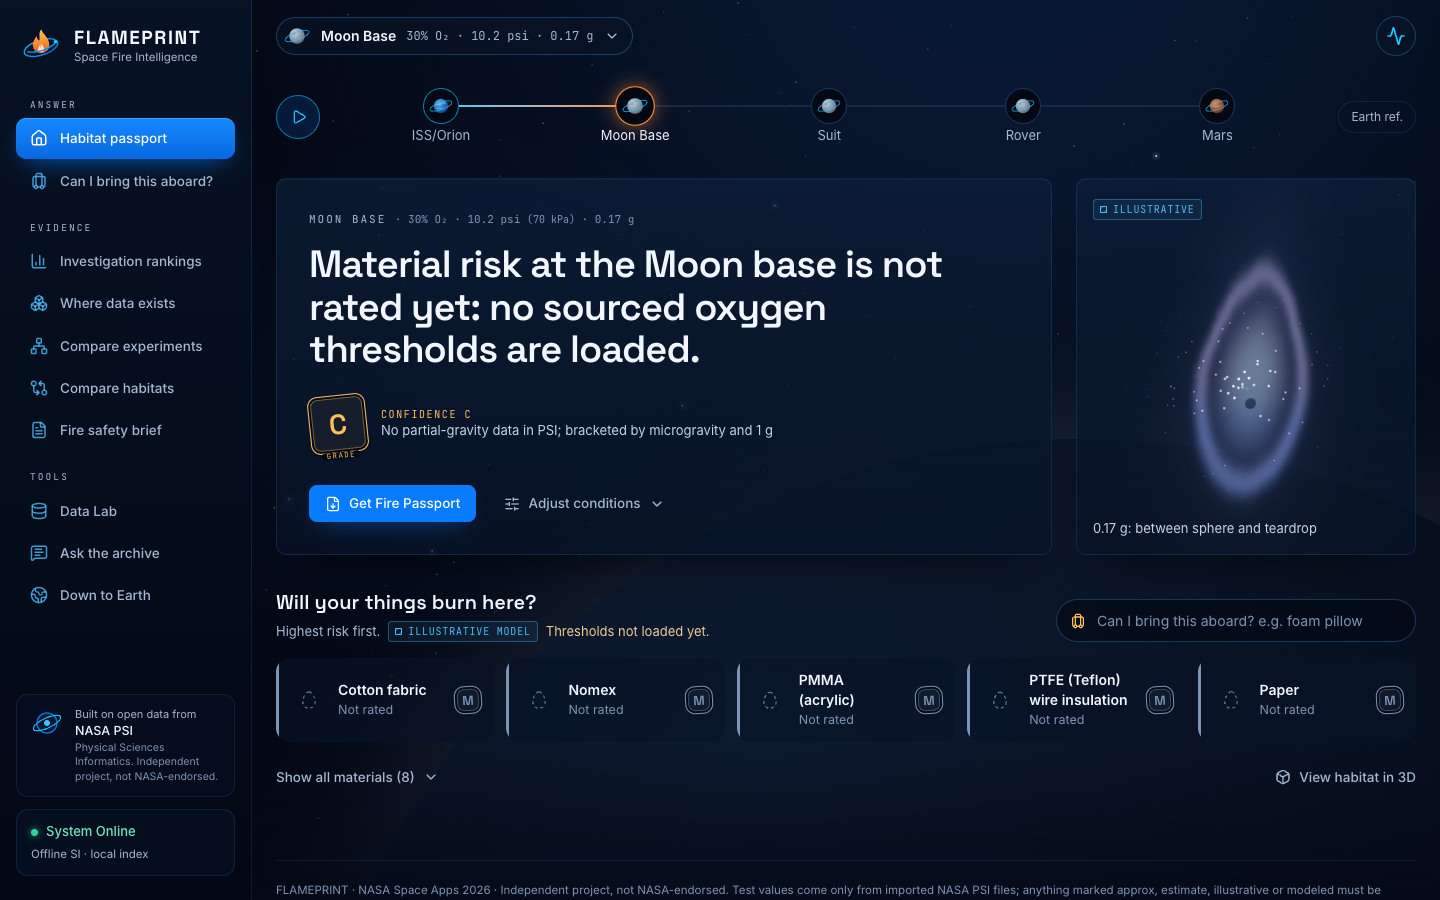
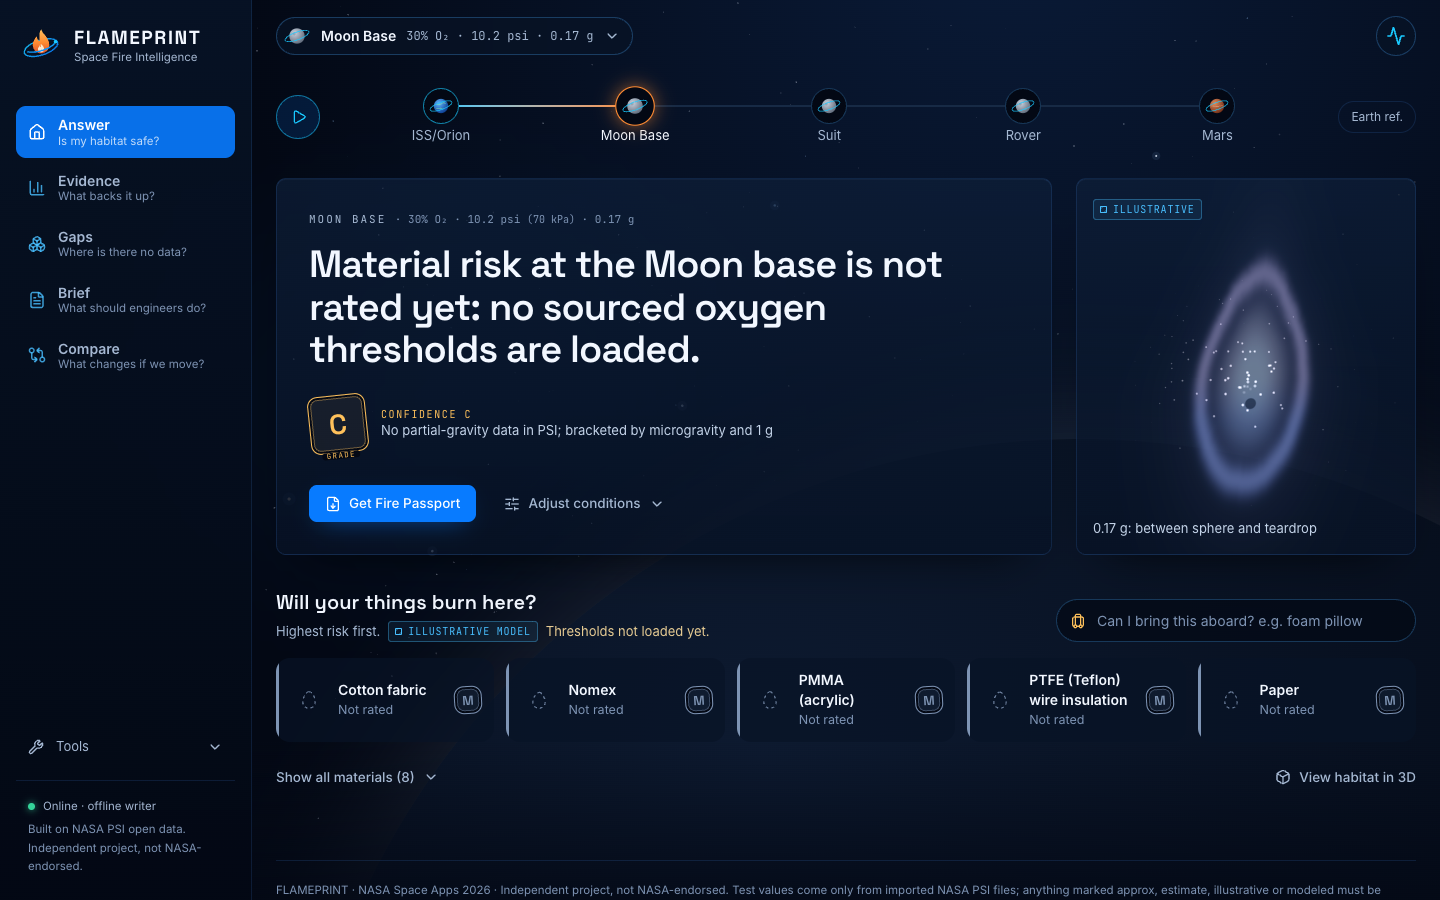
Sidebar: five questions and a small Tools menu
- Answer, Evidence, Gaps, Brief, Compare, each with its one question; active state also covers #genome
- Tools menu (stowage, Data Lab, Ask the archive, Down to Earth) collapsed at the bottom
- Attribution and system cards replaced by one quiet status line
- Links: #overview -> Answer, #genome -> Compare (experiments), plus #evidence, #gaps, #compare aliases
- Tools pages within budget: Data Lab details collapsed, Earth shows 3 of 6, stowage list 5 of 8

diff --git a/frontend/src/components/Sidebar.tsx b/frontend/src/components/Sidebar.tsx
@@ -2,26 +2,23 @@
 
 import { AnimatePresence, motion } from "framer-motion";
 import {
-  BarChart3, Boxes, Database, FileText, GitCompareArrows, Globe2, Home, Luggage, MessageSquareText, Network, X,
+  BarChart3, Boxes, ChevronDown, Database, FileText, GitCompareArrows, Globe2, Home, Luggage, MessageSquareText, Wrench, X,
 } from "lucide-react";
-import { useId } from "react";
+import { useEffect, useId, useState } from "react";
 import { type Tab, useMission } from "@/lib/mission";
 
-export type NavGroup = "answer" | "evidence" | "tools";
-export const NAV: { id: Tab; label: string; short: string; icon: React.ReactNode; group: NavGroup }[] = [
-  { id: "answer", label: "Habitat passport", short: "Answer", icon: <Home className="h-[18px] w-[18px]" />, group: "answer" },
-  { id: "stowage", label: "Can I bring this aboard?", short: "Stowage", icon: <Luggage className="h-[18px] w-[18px]" />, group: "answer" },
-  { id: "ranking", label: "Investigation rankings", short: "Rankings", icon: <BarChart3 className="h-[18px] w-[18px]" />, group: "evidence" },
-  { id: "space", label: "Where data exists", short: "Data map", icon: <Boxes className="h-[18px] w-[18px]" />, group: "evidence" },
-  { id: "genome", label: "Compare experiments", short: "Compare", icon: <Network className="h-[18px] w-[18px]" />, group: "evidence" },
-  { id: "habitats", label: "Compare habitats", short: "Habitats", icon: <GitCompareArrows className="h-[18px] w-[18px]" />, group: "evidence" },
-  { id: "brief", label: "Fire safety brief", short: "Brief", icon: <FileText className="h-[18px] w-[18px]" />, group: "evidence" },
-  { id: "data", label: "Data Lab", short: "Data", icon: <Database className="h-[18px] w-[18px]" />, group: "tools" },
-  { id: "ask", label: "Ask the archive", short: "Ask", icon: <MessageSquareText className="h-[18px] w-[18px]" />, group: "tools" },
-  { id: "earth", label: "Down to Earth", short: "Earth", icon: <Globe2 className="h-[18px] w-[18px]" />, group: "tools" },
-];
-const GROUPS: { id: NavGroup; label: string }[] = [
-  { id: "answer", label: "Answer" }, { id: "evidence", label: "Evidence" }, { id: "tools", label: "Tools" },
+export type NavGroup = "main" | "tools";
+/** Five pages, each answering one question, plus a small Tools menu. */
+export const NAV: { id: Tab; label: string; question: string; icon: React.ReactNode; group: NavGroup; also?: Tab[] }[] = [
+  { id: "answer", label: "Answer", question: "Is my habitat safe?", icon: <Home className="h-[18px] w-[18px]" />, group: "main" },
+  { id: "ranking", label: "Evidence", question: "What backs it up?", icon: <BarChart3 className="h-[18px] w-[18px]" />, group: "main" },
+  { id: "space", label: "Gaps", question: "Where is there no data?", icon: <Boxes className="h-[18px] w-[18px]" />, group: "main" },
+  { id: "brief", label: "Brief", question: "What should engineers do?", icon: <FileText className="h-[18px] w-[18px]" />, group: "main" },
+  { id: "habitats", label: "Compare", question: "What changes if we move?", icon: <GitCompareArrows className="h-[18px] w-[18px]" />, group: "main", also: ["genome"] },
+  { id: "stowage", label: "Can I bring this aboard?", question: "", icon: <Luggage className="h-[16px] w-[16px]" />, group: "tools" },
+  { id: "data", label: "Data Lab", question: "", icon: <Database className="h-[16px] w-[16px]" />, group: "tools" },
+  { id: "ask", label: "Ask the archive", question: "", icon: <MessageSquareText className="h-[16px] w-[16px]" />, group: "tools" },
+  { id: "earth", label: "Down to Earth", question: "", icon: <Globe2 className="h-[16px] w-[16px]" />, group: "tools" },
 ];
 
 /** FLAMEPRINT mark: a flame held inside an orbital ring. */
@@ -64,59 +61,64 @@ export function Logo({ compact = false }: { compact?: boolean }) {
   );
 }
 
-function NavItem({ id, label, icon, rail, onNavigate }: { id: Tab; label: string; icon: React.ReactNode; rail: boolean; onNavigate?: () => void }) {
+function NavItem({ item, rail, onNavigate, small = false }: { item: (typeof NAV)[number]; rail: boolean; onNavigate?: () => void; small?: boolean }) {
   const { tab, setTab } = useMission();
-  const active = tab === id;
+  const active = tab === item.id || !!item.also?.includes(tab);
   return (
-    <button title={rail ? label : undefined} aria-current={active ? "page" : undefined}
-      onClick={() => { setTab(id); onNavigate?.(); }}
-      className={`group relative flex w-full items-center gap-3 rounded-[10px] py-2.5 text-left transition-colors ${rail ? "justify-center px-0" : "px-3.5"} ${
+    <button title={rail ? item.label : undefined} aria-current={active ? "page" : undefined}
+      onClick={() => { setTab(item.id); onNavigate?.(); }}
+      className={`group relative flex w-full items-center gap-3 rounded-[10px] text-left transition-colors duration-150 ${small ? "py-2" : "py-2.5"} ${rail ? "justify-center px-0" : "px-3"} ${
         active ? "text-white" : "text-mute hover:text-ink"}`}>
       {active && (
-        <motion.span layoutId={rail ? "nav-active-rail" : "nav-active"}
-          className="absolute inset-0 rounded-[10px] bg-[linear-gradient(180deg,#1688ff,#0868e0)] shadow-[0_8px_24px_-10px_rgba(8,123,255,0.9),inset_0_1px_0_rgba(255,255,255,0.18)]"
-          transition={{ type: "spring", stiffness: 420, damping: 36 }} />
+        <motion.span layoutId={rail ? "nav-active-rail" : "nav-active"} className="absolute inset-0 rounded-[10px] bg-blue/90"
+          transition={{ duration: 0.25, ease: [0.2, 0.7, 0.2, 1] }} />
       )}
-      {!active && <span className="absolute inset-0 rounded-[10px] bg-white/[0.035] opacity-0 transition-opacity group-hover:opacity-100" />}
-      <span className={`relative z-10 transition-colors ${active ? "text-white" : "text-ox-2/80 group-hover:text-ox"}`}>{icon}</span>
-      {!rail && <span className="relative z-10 text-[13.5px] font-medium">{label}</span>}
+      {!active && <span className="absolute inset-0 rounded-[10px] bg-white/[0.035] opacity-0 transition-opacity duration-150 group-hover:opacity-100" />}
+      <span className={`relative z-10 ${active ? "text-white" : "text-ox-2/80 group-hover:text-ox"}`}>{item.icon}</span>
+      {!rail && (
+        <span className="relative z-10 min-w-0 leading-tight">
+          <span className={`block ${small ? "text-[13px]" : "text-[14px] font-semibold"}`}>{item.label}</span>
+          {item.question && <span className={`block truncate text-[11.5px] ${active ? "text-white/75" : "text-slate-500"}`}>{item.question}</span>}
+        </span>
+      )}
     </button>
   );
 }
 
-function SystemCard({ compact }: { compact?: boolean }) {
+function Status({ rail }: { rail: boolean }) {
   const { health, error } = useMission();
   const online = !!health && !error;
   const tone = error ? "#FF5A4E" : online ? "#34D399" : "#7E94B4";
-  if (compact) {
-    return <span title={error ? "Backend offline" : online ? "System online" : "Connecting"} className="led mx-auto block" style={{ color: tone }} />;
-  }
+  const text = error ? "Engine offline" : online ? (health.llm.enabled ? "Online · Claude" : "Online · offline writer") : "Connecting…";
+  if (rail) return <span title={text} className="led mx-auto block" style={{ color: tone }} />;
   return (
-    <div className="rounded-[12px] border border-[var(--line)] bg-space-900/60 px-3.5 py-3">
-      <div className="flex items-center gap-2 text-[13px] font-medium" style={{ color: online ? "#6EE7B7" : error ? "#FF9A91" : "#A5B8D2" }}>
-        <span className="led" style={{ color: tone }} />
-        {error ? "Backend offline" : online ? "System Online" : "Connecting…"}
-      </div>
-      <div className="mt-1 text-[11.5px] text-mute">
-        {health ? `${health.llm.enabled ? "Claude SI" : "Offline SI"} · ${health.db.backend === "postgres" ? "pgvector" : "local index"}` : "Linking archive"}
-      </div>
+    <div className="px-3 text-[11.5px] leading-relaxed text-slate-500">
+      <div className="flex items-center gap-2 text-slate-400"><span className="led" style={{ color: tone }} />{text}</div>
+      <div className="mt-1">Built on NASA PSI open data. Independent project, not NASA-endorsed.</div>
     </div>
   );
 }
 
-function Attribution() {
+function ToolsMenu({ rail, onNavigate }: { rail: boolean; onNavigate?: () => void }) {
+  const { tab } = useMission();
+  const tools = NAV.filter((n) => n.group === "tools");
+  const inTools = tools.some((t) => t.id === tab);
+  const [open, setOpen] = useState(inTools);
+  useEffect(() => { if (inTools) setOpen(true); }, [inTools]);
   return (
-    <div className="flex items-start gap-3 rounded-[12px] border border-[var(--line)] bg-space-900/40 px-3.5 py-3">
-      <svg viewBox="0 0 32 32" className="h-8 w-8 shrink-0" aria-hidden>
-        <circle cx="16" cy="16" r="10" fill="#0B1930" stroke="#087BFF" strokeWidth="1.3" />
-        <ellipse cx="16" cy="16" rx="15" ry="5" fill="none" stroke="#19C9FF" strokeWidth="1.1" transform="rotate(-25 16 16)" />
-        <circle cx="16" cy="16" r="3" fill="#48BFFF" />
-      </svg>
-      <div className="leading-snug">
-        <div className="text-[11px] text-mute">Built on open data from</div>
-        <div className="text-[12.5px] font-medium text-ink">NASA PSI</div>
-        <div className="mt-0.5 text-[10.5px] text-slate-500">Physical Sciences Informatics. Independent project, not NASA-endorsed.</div>
-      </div>
+    <div>
+      <button onClick={() => setOpen((x) => !x)} aria-expanded={open} title={rail ? "Tools" : undefined}
+        className={`flex w-full items-center gap-3 rounded-[10px] py-2 text-[13px] text-mute transition-colors duration-150 hover:text-ink ${rail ? "justify-center" : "px-3"}`}>
+        <Wrench className="h-4 w-4" />{!rail && <>Tools<ChevronDown className={`ml-auto h-4 w-4 transition-transform duration-200 ${open ? "rotate-180" : ""}`} /></>}
+      </button>
+      <AnimatePresence initial={false}>
+        {open && (
+          <motion.nav aria-label="Tools" initial={{ height: 0, opacity: 0 }} animate={{ height: "auto", opacity: 1 }} exit={{ height: 0, opacity: 0 }}
+            transition={{ duration: 0.2 }} className="flex flex-col gap-0.5 overflow-hidden">
+            {tools.map((n) => <NavItem key={n.id} item={n} rail={rail} onNavigate={onNavigate} small />)}
+          </motion.nav>
+        )}
+      </AnimatePresence>
     </div>
   );
 }
@@ -125,19 +127,12 @@ function Panel({ rail, onNavigate }: { rail: boolean; onNavigate?: () => void })
   return (
     <div className={`flex h-full flex-col ${rail ? "items-stretch px-3 py-5" : "px-4 py-6"}`}>
       <div className={rail ? "" : "px-1"}><Logo compact={rail} /></div>
-      {GROUPS.map((g, gi) => (
-        <div key={g.id} className={gi === 0 ? (rail ? "mt-7" : "mt-8") : "mt-5"}>
-          <div className={`mb-1.5 ${rail ? "mx-auto w-6" : "px-3.5"}`}>
-            {rail ? (gi > 0 && <div className="rule" />) : <div className="label !text-[9.5px] !tracking-[0.22em] text-slate-500">{g.label}</div>}
-          </div>
-          <nav aria-label={g.label} className="flex flex-col gap-0.5">
-            {NAV.filter((n) => n.group === g.id).map((n) => <NavItem key={n.id} id={n.id} label={n.label} icon={n.icon} rail={rail} onNavigate={onNavigate} />)}
-          </nav>
-        </div>
-      ))}
-      <div className="mt-auto space-y-3 pt-6">
-        {!rail && <Attribution />}
-        <SystemCard compact={rail} />
+      <nav aria-label="Pages" className={`flex flex-col gap-1 ${rail ? "mt-8" : "mt-10"}`}>
+        {NAV.filter((n) => n.group === "main").map((n) => <NavItem key={n.id} item={n} rail={rail} onNavigate={onNavigate} />)}
+      </nav>
+      <div className="mt-auto space-y-4 pt-6">
+        <ToolsMenu rail={rail} onNavigate={onNavigate} />
+        <div className={rail ? "" : "border-t border-[var(--line)] pt-4"}><Status rail={rail} /></div>
       </div>
     </div>
   );

diff --git a/frontend/src/components/DataLab.tsx b/frontend/src/components/DataLab.tsx
@@ -1,7 +1,7 @@
 "use client";
 
 import { AnimatePresence, motion } from "framer-motion";
-import { CheckCircle2, Download, FileUp, RefreshCw, Sparkles, Trash2, TriangleAlert, UploadCloud } from "lucide-react";
+import { CheckCircle2, Download, FileUp, RefreshCw, Sparkles, Trash2, TriangleAlert, UploadCloud, ChevronDown } from "lucide-react";
 import { useCallback, useEffect, useRef, useState } from "react";
 import { api } from "@/lib/api";
 import { useMission } from "@/lib/mission";
@@ -13,6 +13,7 @@ type Preview = { file: File; report: IngestReport; sample: TestRecord[]; textPre
 export function DataLab() {
   const { dataset, health, refreshData } = useMission();
   const [drag, setDrag] = useState(false);
+  const [details, setDetails] = useState(false);
   const [inv, setInv] = useState("");
   const [preview, setPreview] = useState<Preview | null>(null);
   const [busy, setBusy] = useState<string | null>(null);
@@ -63,11 +64,11 @@ export function DataLab() {
 
   return (
     <div>
-    <PageHeader index="08" kicker="Data lab" title="Plug in the official PSI dataset"
+    <PageHeader kicker="Tools · Data Lab" title="Plug in the official PSI dataset"
       actions={<button onClick={() => act("reload", api.reload, "Re-scanned data/psi and re-indexed.")} className="btn btn-outline !py-2 !text-[12.5px]">
         <RefreshCw className={`h-4 w-4 ${busy === "reload" ? "animate-spin" : ""}`} /> Reload data/psi
       </button>}>
-      Drop NASA PSI test matrices, metadata or documents. Columns are mapped and units converted before anything is saved, and every view updates.
+      Drop PSI test files here; columns and units are mapped before anything is saved.
     </PageHeader>
     <div className="grid gap-5 xl:grid-cols-[1.25fr_1fr]">
       <div className="space-y-5">
@@ -178,9 +179,9 @@ export function DataLab() {
           </AnimatePresence>
         </div>
 
-        <div className="panel p-4 sm:p-5">
+        {uploads.length > 0 && <div className="panel p-4 sm:p-5">
           <div className="label mb-3">Uploaded files</div>
-          {uploads.length === 0 ? <p className="text-sm text-slate-500">Nothing uploaded yet. Files in <code className="text-slate-300">data/psi/</code> are loaded automatically.</p> : (
+          {(
             <div className="space-y-1.5">
               {uploads.map((u) => (
                 <div key={u.file} className="flex flex-wrap items-center gap-2 rounded-[4px] border border-slate-800 bg-space-900/50 px-3 py-2 text-[12.5px]">
@@ -206,7 +207,7 @@ export function DataLab() {
                 className="mt-2 text-xs text-slate-500 hover:text-rose-300">Remove all uploads</button>
             </div>
           )}
-        </div>
+        </div>}
       </div>
 
       <div className="space-y-5">
@@ -236,6 +237,10 @@ export function DataLab() {
           </div>
         </div>
 
+        <button onClick={() => setDetails((x) => !x)} aria-expanded={details} className="btn btn-ghost !px-0">
+          {details ? "Hide details" : "Show details"}<ChevronDown className={`h-4 w-4 transition-transform duration-200 ${details ? "rotate-180" : ""}`} />
+        </button>
+        {details && <>
         <div className="panel p-4 sm:p-5">
           <div className="label mb-3">Ingestion log</div>
           <div className="max-h-[420px] space-y-2 overflow-y-auto pr-1 scrollbar-thin">
@@ -262,6 +267,7 @@ export function DataLab() {
             <li>PDFs and text are indexed for retrieval and, with Claude, can be turned into structured metadata.</li>
           </ol>
         </div>
+        </>}
       </div>
     </div>
     </div>

diff --git a/frontend/src/components/EarthPanel.tsx b/frontend/src/components/EarthPanel.tsx
@@ -1,7 +1,8 @@
 "use client";
 
 import { motion } from "framer-motion";
-import { ArrowRight } from "lucide-react";
+import { ArrowRight, ChevronDown } from "lucide-react";
+import { useState } from "react";
 import { PILLAR_COLOR } from "@/lib/format";
 import { useMission } from "@/lib/mission";
 import type { Spinoff } from "@/lib/types";
@@ -135,17 +136,22 @@ function AppRow({ s, i }: { s: Spinoff; i: number }) {
 }
 
 export function EarthPanel() {
+  const [all, setAll] = useState(false);
   const { dataset } = useMission();
   const spin = dataset?.spinoffs ?? [];
   const links = new Set(spin.flatMap((s) => s.related)).size;
   return (
     <div>
-      <PageHeader index="06" kicker="Down to Earth" title="From orbit to everyday fire safety">
-        How space combustion research connects to suppression, detection, protective equipment and fire safety in confined spaces.
+      <PageHeader kicker="Tools · Down to Earth" title="From orbit to everyday fire safety">
         Each link says whether it comes from the challenge brief or is inferred from investigation objectives.
       </PageHeader>
       <EarthHero apps={spin.length} links={links} />
-      <div className="space-y-4">{spin.map((s, i) => <AppRow key={s.title} s={s} i={i} />)}</div>
+      <div className="space-y-4">{(all ? spin : spin.slice(0, 3)).map((s, i) => <AppRow key={s.title} s={s} i={i} />)}</div>
+      {spin.length > 3 && (
+        <button onClick={() => setAll((x) => !x)} aria-expanded={all} className="btn btn-ghost mt-4 !px-0">
+          {all ? "Show fewer" : `Show all ${spin.length}`}<ChevronDown className={`h-4 w-4 transition-transform duration-200 ${all ? "rotate-180" : ""}`} />
+        </button>
+      )}
     </div>
   );
 }

diff --git a/frontend/src/components/StowageInspector.tsx b/frontend/src/components/StowageInspector.tsx
@@ -141,6 +141,7 @@ export function StowageSearch() {
 
 /** Full tab. */
 export function StowageInspector() {
+  const [allMats, setAllMats] = useState(false);
   const s = useStowage();
   const { scenario, habitats, analysis } = useMission();
   const name = habitats.find((h) => h.id === scenario.habitatId)?.name ?? "Custom mission";
@@ -164,13 +165,18 @@ export function StowageInspector() {
         <div className="panel mt-5 p-5">
           <div className="label mb-3">Materials FLAMEPRINT knows</div>
           <ul className="grid grid-cols-1 gap-2 sm:grid-cols-2">
-            {analysis.materials.map((m) => (
+            {(allMats ? analysis.materials : analysis.materials.slice(0, 5)).map((m) => (
               <li key={m.id} className="flex items-center justify-between gap-2 rounded-[8px] bg-space-950/40 px-3 py-2 text-[13px]">
                 <span className="min-w-0"><span className="text-ink">{m.name}</span><span className="block truncate text-[11.5px] text-slate-500">{m.usedFor}</span></span>
                 <span className="shrink-0 text-[12px]" style={{ color: LEVEL_STYLE[m.level].color }}>{LEVEL_STYLE[m.level].label}</span>
               </li>
             ))}
           </ul>
+          {analysis.materials.length > 5 && (
+            <button onClick={() => setAllMats((x) => !x)} className="btn btn-ghost mt-3 !px-0">
+              {allMats ? "Show fewer" : `Show all ${analysis.materials.length}`}
+            </button>
+          )}
         </div>
       )}
     </div>

diff --git a/frontend/src/app/page.tsx b/frontend/src/app/page.tsx
@@ -9,7 +9,6 @@ import { CosmicBackdrop } from "@/components/CosmicBackdrop";
 import { CompareHabitats } from "@/components/CompareHabitats";
 import { DataLab } from "@/components/DataLab";
 import { EarthPanel } from "@/components/EarthPanel";
-import { Genome } from "@/components/Genome";
 import { Header } from "@/components/Header";
 import { InvestigationDrawer } from "@/components/InvestigationDrawer";
 import { MissionConfig } from "@/components/MissionConfig";
@@ -40,7 +39,7 @@ function Dashboard() {
               {tab === "space" && <SpaceView />}
               {tab === "ranking" && <Ranking />}
               {tab === "brief" && <BriefPanel />}
-              {tab === "genome" && <Genome />}
+              {tab === "genome" && <CompareHabitats initialMode="experiments" />}
               {tab === "earth" && <EarthPanel />}
               {tab === "ask" && <AskPanel />}
               {tab === "data" && <DataLab />}

diff --git a/frontend/src/components/AskPanel.tsx b/frontend/src/components/AskPanel.tsx
@@ -52,12 +52,12 @@ export function AskPanel() {
 
   return (
     <div>
-      <PageHeader index="07" kicker="Ask the archive" title="Retrieval-grounded answers with sources"
+      <PageHeader kicker="Tools · Ask the archive" title="Ask the archive"
         actions={<>
           {retrieval && <Pill>{retrieval === "postgres" ? "pgvector search" : "in-memory vector search"}</Pill>}
           {mode && <Pill tone={mode === "llm" ? "cyan" : "amber"}>{mode === "llm" ? "Claude synthesis" : "extractive (offline)"}</Pill>}
         </>}>
-        Semantic search over the investigation catalog and every imported PSI document. Answers cite the passages they use.
+        Search the catalog and imported PSI documents; every answer cites its sources.
       </PageHeader>
       <div className="panel panel-glow p-5 sm:p-7">
       <form onSubmit={(e) => { e.preventDefault(); void ask(q); }} className="relative">

diff --git a/frontend/src/lib/mission.tsx b/frontend/src/lib/mission.tsx
@@ -14,7 +14,11 @@ export const FALLBACK_SCENARIO: Scenario = {
 export const TABS = ["answer", "stowage", "ranking", "space", "genome", "brief", "habitats", "data", "ask", "earth"] as const;
 export type Tab = (typeof TABS)[number];
 /** Old deep links keep working. */
-const LEGACY: Record<string, Tab> = { overview: "answer", coverage: "space", control: "answer" };
+const LEGACY: Record<string, Tab> = {
+  overview: "answer", control: "answer", coverage: "space",
+  // plain names from the sidebar also work as links
+  evidence: "ranking", gaps: "space", compare: "habitats",
+};
 export const resolveTab = (h: string): Tab | null => (TABS as readonly string[]).includes(h) ? (h as Tab) : LEGACY[h] ?? null;
 
 interface MissionCtx {
